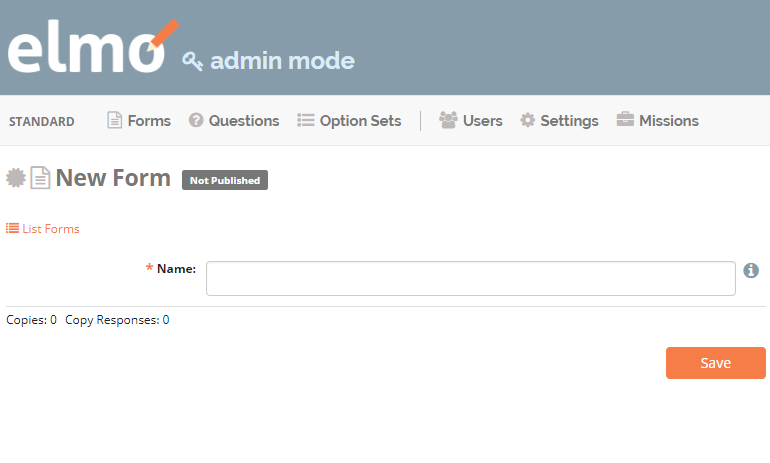
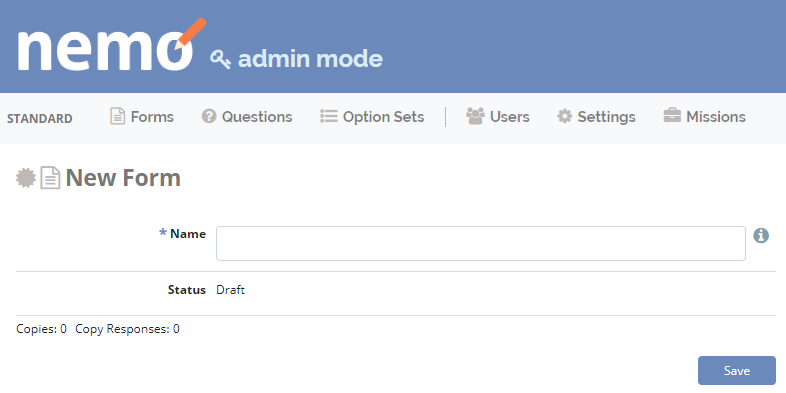
10329: new versioning

diff --git a/content/formsoverall/formsoverall.rst b/content/formsoverall/formsoverall.rst
@@ -9,7 +9,7 @@ Forms
 Forms menu
 ----------
 
-The **Forms** menu lists all the available forms for a mission. These are the components:
+The **Forms** menu lists all the available forms for a mission.
 
 .. image:: forms-tab.png
   :alt: Forms tab
@@ -19,19 +19,28 @@ The **Forms** menu lists all the available forms for a mission. These are the co
 :guilabel:`SMS Test Console` Click to test form submission via SMS. |br|
 :guilabel:`Import Standard Forms` Click to :ref:`import-standard-forms` to the mission. These forms can be edited within the mission.
 
-For every form in the list, action icons are in the right and works as follows:
+Form status
+~~~~~~~~~~~~
+
+Forms have 3 different status:
+
+- **Live**: form is available for enumerators to download and submit responses. Only minor changes to the form are permitted like form name, question title and hints.
+- **Paused**: form is not available for enumerators to download and submit responses. Only minor changes to the form are permitted like form name, question title and hints.
+- **Draft**: form is not available for enumerators to download and all changes are permitted.
+
+Action icons
+~~~~~~~~~~~~
+
+For every form in the list, action icons are in the right and work as follows:
 
 .. image:: forms-tab-inset.png
    :alt: forms tab inset
 
+:fa:`pause` Pause form. Changes the form status to paused. |br|
+:fa:`play` Go live. Changes the form status to live. |br|
+:fa:`copy` Clone. Click to create an identical copy of the form. |br|
+:fa:`print` Print. Click to print the form. |br|
 
-:fa:`pencil` Click to edit the form. |br|
-:fa:`trash` Click to delete the form. This can only be done for forms that are unpublished. |br|
-:fa:`arrow-up` Click to publish the form. |br|
-:fa:`arrow-down` Click to unpublish the form. |br|
-:fa:`copy` Click to create an identical copy of the form. |br|
-:fa:`print` Click to print the form. |br|
-:fa:`comment` Click to see the SMS guide of the form. |br|
 
 .. _create-general-form:
 
@@ -117,8 +126,9 @@ Grouping questions by context makes it easier for users to fill forms. Groups ca
 
   a. Click :guilabel:`Add Group`.
   b. Give the group a unique name.
-  c. If needed, check the box 'Repeatable?'.
-  d. Choose the Display Logic.
+  c. If you want to make the group of questions repeatable, check the box :guilabel:`Repeatable?`. Example: if entering details of multiple family members in a household.
+  d. If you want to show the group of questions in the same screen in ODK Collect, check :guilabel:`Show on One Screen`.
+  e. Choose the Display Logic.
 
     - Always display this group.
     - Display this group if all of these conditions are met.
@@ -129,7 +139,7 @@ Grouping questions by context makes it easier for users to fill forms. Groups ca
 4. Click and drag the questions in the desired order of appearance.
 5. Click and drag groups in the desired order of appearance.
 6. Drag questions intended for groups to the right so that they appear indented in relation to the group.
-7. Click :guilabel:`Save` to save the form, or click :guilabel:`Save and Publish` if the form is ready to be used.
+7. Click :guilabel:`Save` to save the form, or click :guilabel:`Save and Go Live` if the form is ready to be used.
 
 .. image:: drag-and-drop.gif
    :alt: Drag and drop
@@ -137,7 +147,7 @@ Grouping questions by context makes it easier for users to fill forms. Groups ca
 Grids
 ~~~~~
 
-Groups can be used to create grids, an example of which is shown below.
+Groups can be used to create grids in ODK Collect, example:
 
 .. figure:: Screenshot_2016-03-15-10-23-18.png
    :alt: Screenshot\_2016-03-15-10-23-18
@@ -155,19 +165,43 @@ Groups can be used to create grids, an example of which is shown below.
 1. Create or edit an existing form.
 2. Create or edit an existing group.
 3. Place **Select One** questions with the same option set in the group.
-4. Click :guilabel:`Save` to save the form, or click :guilabel:`Save and Publish` if the form is ready to be used.
+4. Click :guilabel:`Save` to save the form, or click :guilabel:`Save and Go Live` if the form is ready to be used.
 
 
-Publish a form
------------------
 
-Once a form has been created, it must be published before users can submit responses. To publish a form:
+²
+Go live
+-------
 
-1. Click :guilabel:`Forms` menu.
-2. On the right side of the page, click :fa:`arrow-up` located on the same line as the form to publish. If the arrow is down :fa:`arrow-down` the form is already published.
+Once a form has been created, it must go live before users can submit responses. you can do so when editing a form by:
 
-.. image:: publish-forms.png
-   :alt: publish forms
+ - Clicking :fa:`play` Go Live on the top of the screen.
+ - Or clicking :guilabel:`Save and Go Live` button.
+
+.. image:: go-live.png
+   :alt: Go live
+
+
+You can also Go Live from the forms list menu by clicking :fa:`play` Go Live:
+
+.. image:: forms-tab.png
+   :alt: Go live from forms menu
+
+Form version
+-------------
+
+Each form version has a 10 digit ID and a 3 letters code (example: 2019092500-oyt). The form versioning system is intended to indicate small changes in the form design so that enumerators can update their copies of the form.
+
+When editing a form, click :guilabel:`Increment Version` to increment the form version.
+
+.. image:: form-version.png
+   :alt: Form version
+
+You can also choose the minimum accepted version of the form, to do so click :guilabel:`More settings` then :guilabel:`Minimum Accepted Version`
+
+.. image:: form-version-extended.png
+   :alt: Form version extended
+
 
 Print form
 --------------
@@ -176,5 +210,5 @@ To print a hardcopy of a form:
 
 1. Click :guilabel:`Forms` menu.
 2. Select a form from the list.
-3. Click :guilabel:`Print Form`.
+3. Click :guilabel:`Print`.
 4. A dialog will show up saying that you need to activate background colors and images. Click :guilabel:`OK` then activate these in your system/browser print options.

diff --git a/content/getstarted/getstarted.rst b/content/getstarted/getstarted.rst
@@ -17,6 +17,7 @@ Create a mission
 3. Click on :guilabel:`Create New Mission`.
 
 .. image:: mission.png
+   :alt: Create mission
 
 
 .. tip::
@@ -30,6 +31,7 @@ Create a new form
 2. Click :guilabel:`Create New Form` to create your first form.
 
 .. image:: createform.png
+   :alt: Create Form
 
 
 Add questions to form
@@ -38,18 +40,20 @@ Add questions to form
 Click on :guilabel:`+ Add Question`.
 
 .. image:: addquestion.png
+   :alt: Add Question
 
 .. tip::
   For more details on question types, see :ref:`question-types` section.
   
 
 
-Publish form
+Go Live
 ------------
 
-After adding questions to your form, you need to **publish** the form in order to allow users to submit form responses. To do so click on :guilabel:`Publish Form`.
+After adding questions to your form, you need to **Go Live** in order to allow users to submit form responses. To do so click on :guilabel:`Go Live`.
 
 .. image:: publishform.png
+   :alt: Go Live
 
 
 
